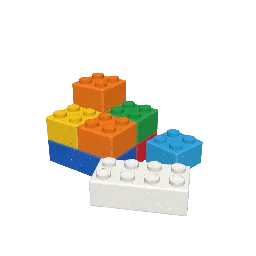
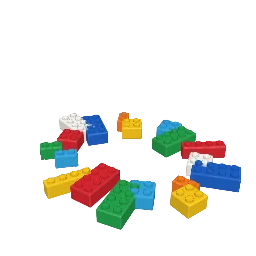
Phase F: plan entries, thumbnails, screenshots, phone swipe test, handoff
Claude-Session: https://claude.ai/code/session_01JtY6hxYKeuk6mw4iJ7Yr17

Changed region(s): [[0.1562, 0.2812, 0.9688, 0.9062]]

diff --git a/src/packs/playthings.js b/src/packs/playthings.js
@@ -498,8 +498,8 @@ const MODELS = [
     slots: [
       ["D", -1.5, 0, 0, 1], ["D", 1.5, 0, 0, 1],
       ["A", 0, 0, 1],
-      ["B", 1, 0, 2], ["D", -2, -0.5, 2],
-      ["B", 2, 0, 3], ["D", 2.5, 0, 4, 1],
+      ["B", 1, 0, 2], ["D", -2, 0.5, 2],
+      ["A", 2, 0, 3], ["D", 0.5, 0, 4, 1],
     ],
   },
   {
@@ -1055,6 +1055,8 @@ export const RECIPES = {
         ],
       },
     ],
+    // More splats for eighteen small bricks and their studs.
+    density: 1.5,
     controls: [{ key: "snap", label: "Build", type: "pulse", ease: BUILD.secs }],
     action: { key: "snap", label: "Build something" },
     drive(t, c, out, info) {
@@ -1821,6 +1823,8 @@ export const RECIPES = {
     // solved cube, or turns a scrambled one back to solved, one layer at a
     // time. Solving it by hand earns a little hop and a chime.
     alive: () => cubeBusy(),
+    // More splats: 26 cubies spend half theirs on faces hidden inside.
+    density: 1.8,
     controls: [{ key: "twist", label: "Scramble", type: "pulse", ease: CUBE_TAP }],
     action: { key: "twist", label: "Scramble or solve" },
     // For tests: whether each face shows one colour, and the turns since.

diff --git a/docs/TOY-PLAN.md b/docs/TOY-PLAN.md
@@ -11,8 +11,8 @@ Proposals below are suggestions; the owner may change them.
 ## Totals
 
 - 284 toys. 284 have a tap action today; the other 0 only hop.
-- **keep** (the effect is right: the owner liked it, or C2 finished it): 282.
-- **more** (has an effect; make it clearer or more dramatic): 2.
+- **keep** (the effect is right: the owner liked it, or C2 finished it): 284.
+- **more** (has an effect; make it clearer or more dramatic): 0.
 - **new** (needs its own effect): 0.
 - Visual fixes: 0 open, 28 done. Touch or drag interaction asked for: 4.
 
@@ -42,13 +42,14 @@ Proposals below are suggestions; the owner may change them.
   Pinecone, Acorns, Succulent, Bamboo, Pebbles, Kelp, Lava lamp, Ice swan, Tornado, Rainbow,
   Iceberg, Waterfall, Ocean wave, Ice cream, Watermelon, Cupcake, Lollipop, Candy cane, Macarons,
   Gummy bear, Pretzel, Croissant, Sushi, Taco, Coffee, Apple, Bananas, Orange, Kiwi, Pineapple,
-  Cherries, Grapes, Avocado, Rubber duck, Newton's cradle, Kite, Chess set, Lorenz attractor, Möbius
-  strip, Klein bottle, Menger sponge, Hypercube, Torus knot, Gyroid, Mandelbulb, Seashell spiral,
-  Heraldic shield, Crown, Wizard's orb, Jellyfish, School of fish, Pufferfish, Nautilus, Snail,
-  Octopus, Sea urchin, Frog, Snowman, Fireworks, Decorated tree, Diya, Acoustic guitar, Snare drum,
-  Xylophone, Hot-air balloon, Bus, Jet airliner, Sailboat, Submarine, Bicycle, Eiffel Tower,
-  Washington Monument, Pyramids of Giza, Twisting supertall, Statue of Liberty, White House, Leaning
-  Tower of Pisa, Colosseum, Parthenon, Stonehenge, Big Ben, Taj Mahal, Castle, Pagoda, Windmill.
+  Cherries, Grapes, Avocado, Building bricks, Rubber duck, Newton's cradle, Puzzle cube, Kite, Chess
+  set, Lorenz attractor, Möbius strip, Klein bottle, Menger sponge, Hypercube, Torus knot, Gyroid,
+  Mandelbulb, Seashell spiral, Heraldic shield, Crown, Wizard's orb, Jellyfish, School of fish,
+  Pufferfish, Nautilus, Snail, Octopus, Sea urchin, Frog, Snowman, Fireworks, Decorated tree, Diya,
+  Acoustic guitar, Snare drum, Xylophone, Hot-air balloon, Bus, Jet airliner, Sailboat, Submarine,
+  Bicycle, Eiffel Tower, Washington Monument, Pyramids of Giza, Twisting supertall, Statue of
+  Liberty, White House, Leaning Tower of Pisa, Colosseum, Parthenon, Stonehenge, Big Ben, Taj Mahal,
+  Castle, Pagoda, Windmill.
 - **D, effects and sound engine.** A unique sound for every toy (the Sound column below), starting
   with the toys whose effect is kept.
 - **E1, new effects: scans and shapes.** None.
@@ -1311,9 +1312,12 @@ Proposals below are suggestions; the owner may change them.
 
 ## Toys (16)
 
-- **Building bricks** (`bricks`). Now: tap: Pop the bricks. Plan: more.
+- **Building bricks** (`bricks`). Now: tap: Build something. Plan: keep.
   - Owner: Build something random from the blocks.
   - Effect: Bricks rearrange into a random small build (tower, bridge, animal), different each tap.
+  - Improved: F: eighteen bricks lie poured out round the table. Each tap pops the last model apart
+    and builds a new one in the middle, brick by brick from the bottom up, each clicking into place:
+    a tower, a bridge, stairs, a dog or a tree (never the same twice running; about 5 s).
   - Sound: Brick clicks.
   - Touch or drag interaction (phase F).
 - **Rubber duck** (`rubber-duck`). Now: tap: Squeak. Plan: keep.
@@ -1334,7 +1338,8 @@ Proposals below are suggestions; the owner may change them.
     and let go.
   - Improved: E1c: a tap lifts the end ball and lets it go. Each strike sends the far ball out,
     loses a little height and clacks as it lands, the middle balls twitch with the knock, and it
-    dies away over about 9 s. It no longer swings on its own.
+    dies away over about 9 s. It no longer swings on its own. F: drag any ball out to the side and
+    let go; the balls between it and the end come with it, and as many balls fly out the other side.
   - Sound: Crisp steel clacks.
   - Touch or drag interaction (phase F).
 - **Teddy bear** (`teddy-bear`). Now: tap: Wave hello. Plan: keep.
@@ -1343,11 +1348,15 @@ Proposals below are suggestions; the owner may change them.
 - **Yo-yo** (`yo-yo`). Now: tap: Throw. Plan: keep.
   - Owner: Fine.
   - Sound: String zip.
-- **Puzzle cube** (`puzzle-cube`). Now: tap: Twist the top. Plan: more.
+- **Puzzle cube** (`puzzle-cube`). Now: tap: Scramble or solve. Plan: keep.
   - Owner: Only the top row twists (very cool). Move more than the top row; ideally swipe any row or
     column to solve it; add a shuffle.
   - Effect: Tap scrambles with several random layer turns. Later: swipe a face to turn that layer,
     with a solved check.
+  - Improved: F: a real 3x3 cube of 26 cubies. Swipe across any face to turn that row or column: it
+    follows your finger and snaps to the nearest quarter turn with a click. A tap scrambles it (14
+    quick turns), or turns a scrambled cube back to solved; solve it by hand and it hops, spins and
+    chimes.
   - Sound: Plastic click per turn.
   - Touch or drag interaction (phase F).
 - **Spring toy** (`spring-toy`). Now: tap: Make it walk. Plan: keep.
@@ -1386,7 +1395,9 @@ Proposals below are suggestions; the owner may change them.
     the rules: castling, en passant, promotion, disambiguation; a set-up position from FEN; a clear
     message for a bad file), set the move speed, or go back to the Opera Game (the default). A
     promoting pawn sinks away and a new queen rises; the loser's king tips over after mate or
-    resignation.
+    resignation. F: tap a piece whose turn it is (it lifts), then a square it can legally move to;
+    the game goes on from there as your own (a queen for a pawn on the last rank; mate tips the king
+    over). The Play button, the game bar and a tap beside the board still play the Opera Game.
   - Sound: Wooden piece clacks.
 
 ## Maths (11)

diff --git a/docs/handoff/F.md b/docs/handoff/F.md
@@ -49,14 +49,64 @@ PR title: "Phase F: touch and drag play".
 
 ## State
 
-Started 2026-09-27 on `claude/lane-f-touch-drag`. The owner's Toy Plan marks for the four toys are
-all "yes" with no notes, so the plan entries stand. Working on: the drag plane in the input path,
-then the puzzle cube, Newton's cradle, the chess set and the bricks.
+Built on `claude/lane-f-touch-drag` (PR #42), with a small engine PR on
+`claude/lane-f-touch-drag-engine` that must be merged first. All four toys have their touch play;
+clips are on the Effect review page (lane F). Waiting for the owner's marks.
 
 ## Notes
 
+- **The input path.** A recipe's `drag` (the laptop's trackpad, until now) can name the plane the
+  finger moves across: `drag.plane` is `"view"` (facing the camera), a normal in recipe coordinates,
+  or `(point) => normal` (the puzzle cube uses the face that was touched). Without `plane` the drag
+  follows the horizontal plane it started on, as before, so the laptop is unchanged.
+  `player.recipeRay(x, y)` gives the pointer's ray in recipe coordinates; `player.fromRecipe(p)` and
+  `player.screenPoint(p)` go the other way (for tests and clips).
+- **Engine PR (draw order).** Splats sort in the pose they were built in, so a cubie turned from the
+  back of the cube to the front drew behind the others (holes). A recipe now sets `out.resort` on a
+  frame where its tokens have settled, and `player.resortTokens()` writes the tokens' current places
+  into the sort centres (one re-sort, not every frame). The cube asks after every turn, the bricks
+  after every brick lands. The same PR makes the game panel follow a game that changes on the board
+  (its title and the "Opera Game" button).
+- **Puzzle cube.** 26 cubies are tokens; the cube state (each cubie's place and turn) is kept in
+  `src/packs/playthings.js`. Swipe across a face: the row or column under the finger follows it and
+  snaps to the nearest quarter turn when let go, with a click. A tap scrambles (14 random turns) a
+  solved cube, or plays the turns back to solved (the history is simplified as it goes: a turn and
+  its undo cancel). Solving it by hand gives a hop, a spin and a ding. The button is "Scramble or
+  solve" (the panel does not relabel buttons live).
+- **Newton's cradle.** Drag any ball out to the side: the balls between it and that end come along.
+  Let go and as many balls fly out the other side, strike by strike, with clacks. The tap is
+  unchanged (checked frame by frame against the old drive).
+- **Chess set.** Paused (or before the game starts), tap one of the pieces whose turn it is (it
+  lifts and hovers), then a square it can legally move to (chess.js rules; a pawn on the last rank
+  becomes a queen). The game goes on from that point as "Your game, from the Opera Game"; the game
+  bar steps through it, and the panel's "Opera Game" button goes back. Checkmate tips the king. Taps
+  made while a piece is still sliding wait until it lands. A tap beside the board, the Play button
+  and the game bar play the Opera Game as before.
+- **Bricks.** 18 bricks (tokens: six 2x4, six 2x2, two 1x4, four 1x2) lie poured out round the
+  table. Each tap pops the last model apart and builds one of five (tower, bridge, stairs, dog,
+  tree, never the same twice in a row) brick by brick from the bottom up, each click-landing; the
+  bricks it does not need stay on the table. A node check confirms no model overlaps or floats.
+- `tools/drag-clip.mjs` renders drags and taps as GIF clips (script steps: drag, tap, act, wait,
+  shot), with a dot for the finger.
+
 ## Known issues
+
+- A layer is drawn in its last sorted order while it turns, so a half-turned layer can show a seam
+  for a moment; it is sorted again as it lands.
+- The cube's button reads "Scramble or solve": the panel does not relabel a toy's button while it is
+  shown, so it cannot switch between the two words.
+- On SwiftShader (the tests) a tap waits for a slow GPU pick; quick taps are queued, not lost.
+- Brick colours are random per model, so the dog and the tree are not coloured like a dog or a tree.
 
 ## For the Operator
 
-Lessons for PACKS.md, backlog items and README lines, to move after the merge.
+- **Merge order:** the engine PR (#45, `claude/lane-f-touch-drag-engine`) before this lane's PR.
+- PACKS.md, "Draw order": add "12. Tokens that move far (a cube's cubies, a model's bricks) set
+  `out.resort` on the frame they land; the player sorts them again where they stand. Once per
+  landing, not every frame."
+- PACKS.md, recipe fields: `drag: { at, start, move, end, plane }` (`plane`: `"view"`, a normal, or
+  `(point) => normal`), for a toy's own touch play; see the puzzle cube and Newton's cradle.
+- README: the puzzle cube, cradle, chess and bricks lines can mention swiping, dragging and
+  tap-to-move.
+- `tools/drag-clip.mjs` is new (clips of drags and taps); it could be listed next to
+  `tools/effect-clip.mjs` in CLAUDE.md and OPERATING.md ("Steps for a lane").
